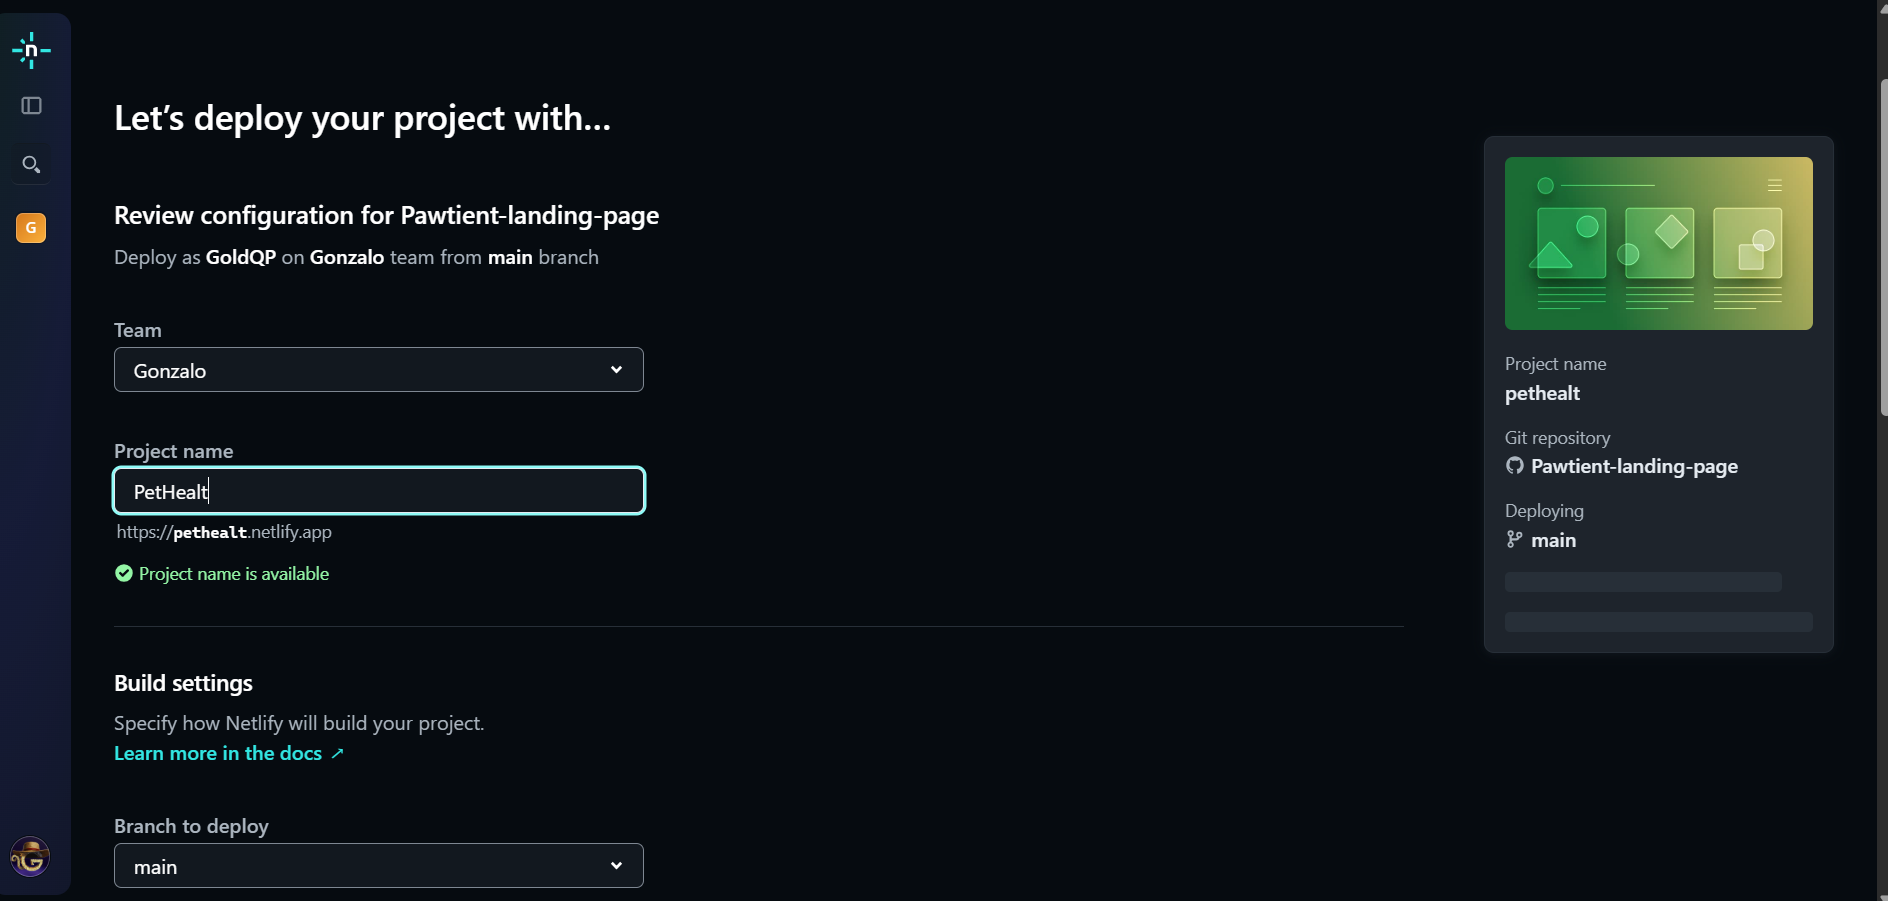
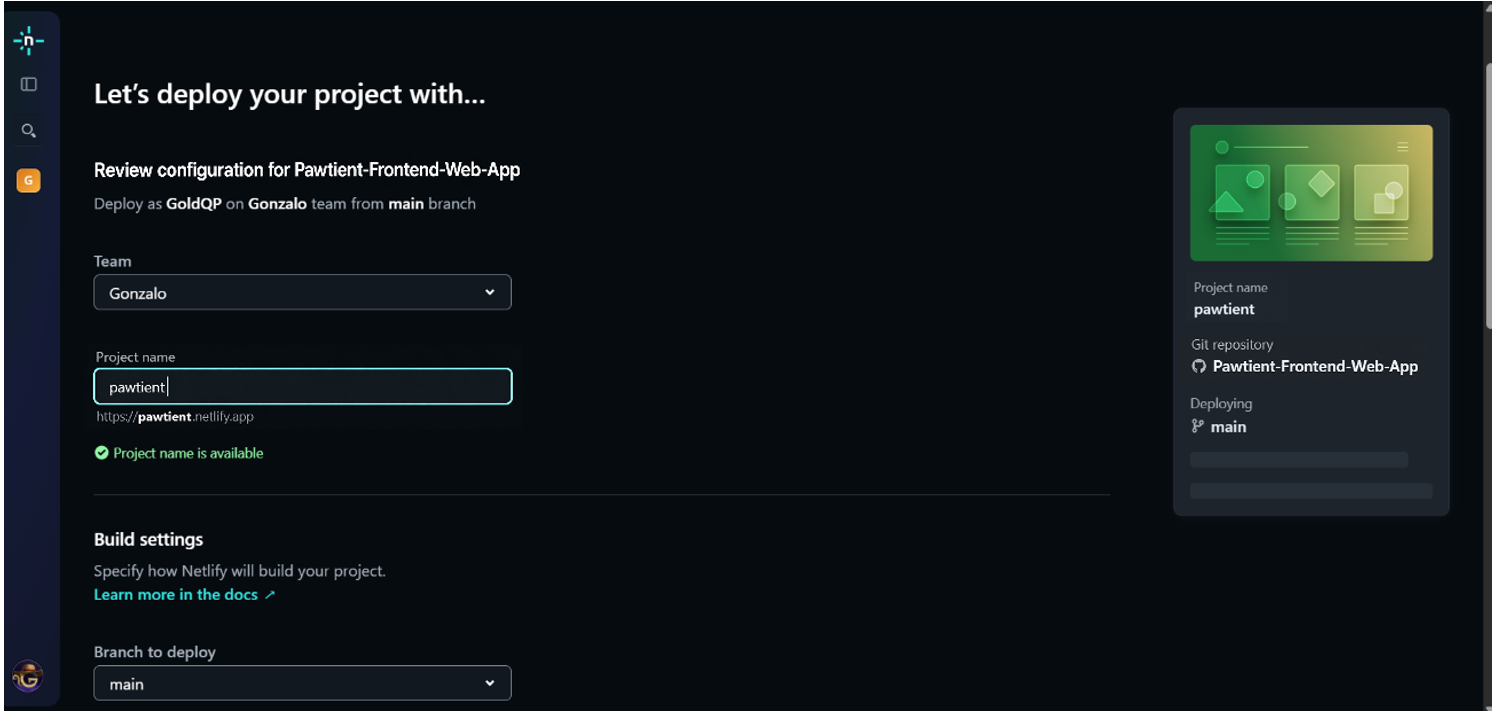
docs: update 5.1.4 with the new frontend deployment.

diff --git a/README.md b/README.md
@@ -9,7 +9,7 @@
 
 <br>
 
-# Informe de Proyecto - Avance 1
+# Informe de Proyecto - Trabajo Parcial
 
 ## Presentado por ´PetHealt Team´
 
@@ -2187,12 +2187,18 @@ Se implementará GitFlow con las siguientes ramas:
     ![Screenshot 6 del Deployment](pawtient-report/assets/images/Software-Deployment-Configuration/deployment-6.png)
 
 7. **Despliegue listo**<br>
-   Ahora podemos observar que el deploy está listo y podremos ver el enlace de la web a la landing page recién desplegada.
-    ![Screenshot 7 del Deployment](pawtient-report/assets/images/Software-Deployment-Configuration/deployment-7.png)
+   Ahora podemos observar que el deploy está listo y podremos ver el enlace de la web al front-end recién desplegado.
+    ![Screenshot 7 del Deployment](pawtient-report/assets/images/Software-Deployment-Configuration/deployment-7.jpg)
 
-Ahora con la Landing Page desplegada, cada vez que se realize un push en la rama correspondiente, se actualizara automáticamente, de esta manera evitamos repetir los pasos.
+8. **Verificar la configuración del proyecto**<br>
+     Verificamos que el proyecto haya sido creado correctamente dentro de Netlify, comprobando el nombre del sitio, repositorio vinculado y estado general de la configuración del despliegue.
+    ![Screenshot 7 del Deployment](pawtient-report/assets/images/Software-Deployment-Configuration/deployment-8.jpg)
 
-[Ver Landing Page desplegada](`https://pethealt.netlify.app/`)
+9. **Confirmar despliegues automáticos**<br>
+     Por último, revisamos la sección Deploys, donde se observa que los despliegues automáticos quedaron habilitados correctamente. De esta forma, cada nuevo push realizado en la rama principal actualiza automáticamente la aplicación desplegada. 
+     ![Screenshot 7 del Deployment](pawtient-report/assets/images/Software-Deployment-Configuration/deployment-9.jpg)
+
+[Ver Front-End desplegado](`https://pawtient.netlify.app/login`)
 
 ---
 